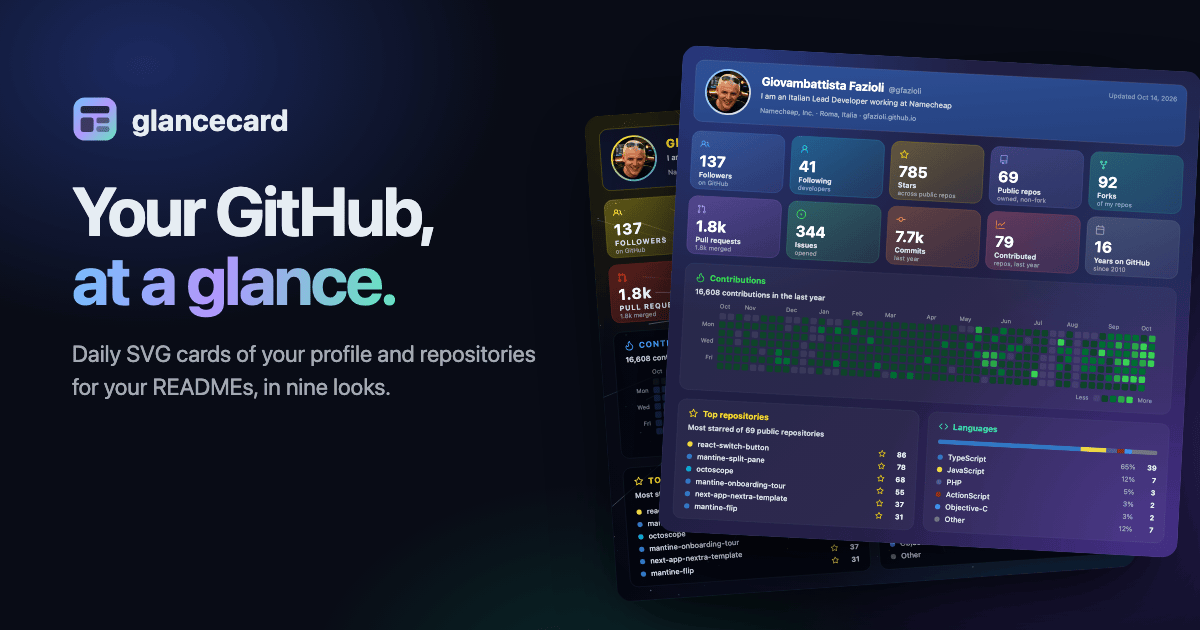
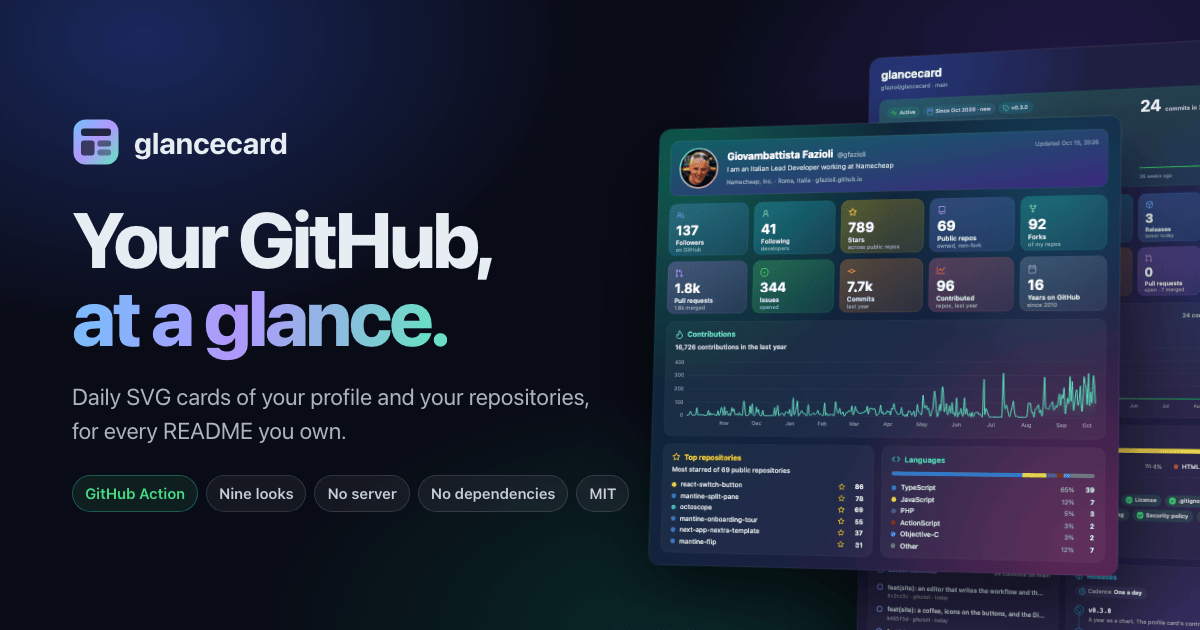
feat(site): the link preview draws the year as a chart

diff --git a/site/index.html b/site/index.html
@@ -17,7 +17,7 @@
     <meta property="og:image" content="https://gfazioli.github.io/glancecard/og.png" />
     <meta property="og:image:width" content="1200" />
     <meta property="og:image:height" content="630" />
-    <meta property="og:image:alt" content="A glancecard profile card: tiles, a contribution calendar, top repositories and languages" />
+    <meta property="og:image:alt" content="A glancecard profile card: tiles, a chart of the year's contributions, top repositories and languages" />
     <meta name="twitter:card" content="summary_large_image" />
     <script type="module" src="editor.js"></script>
     <script type="application/ld+json">
